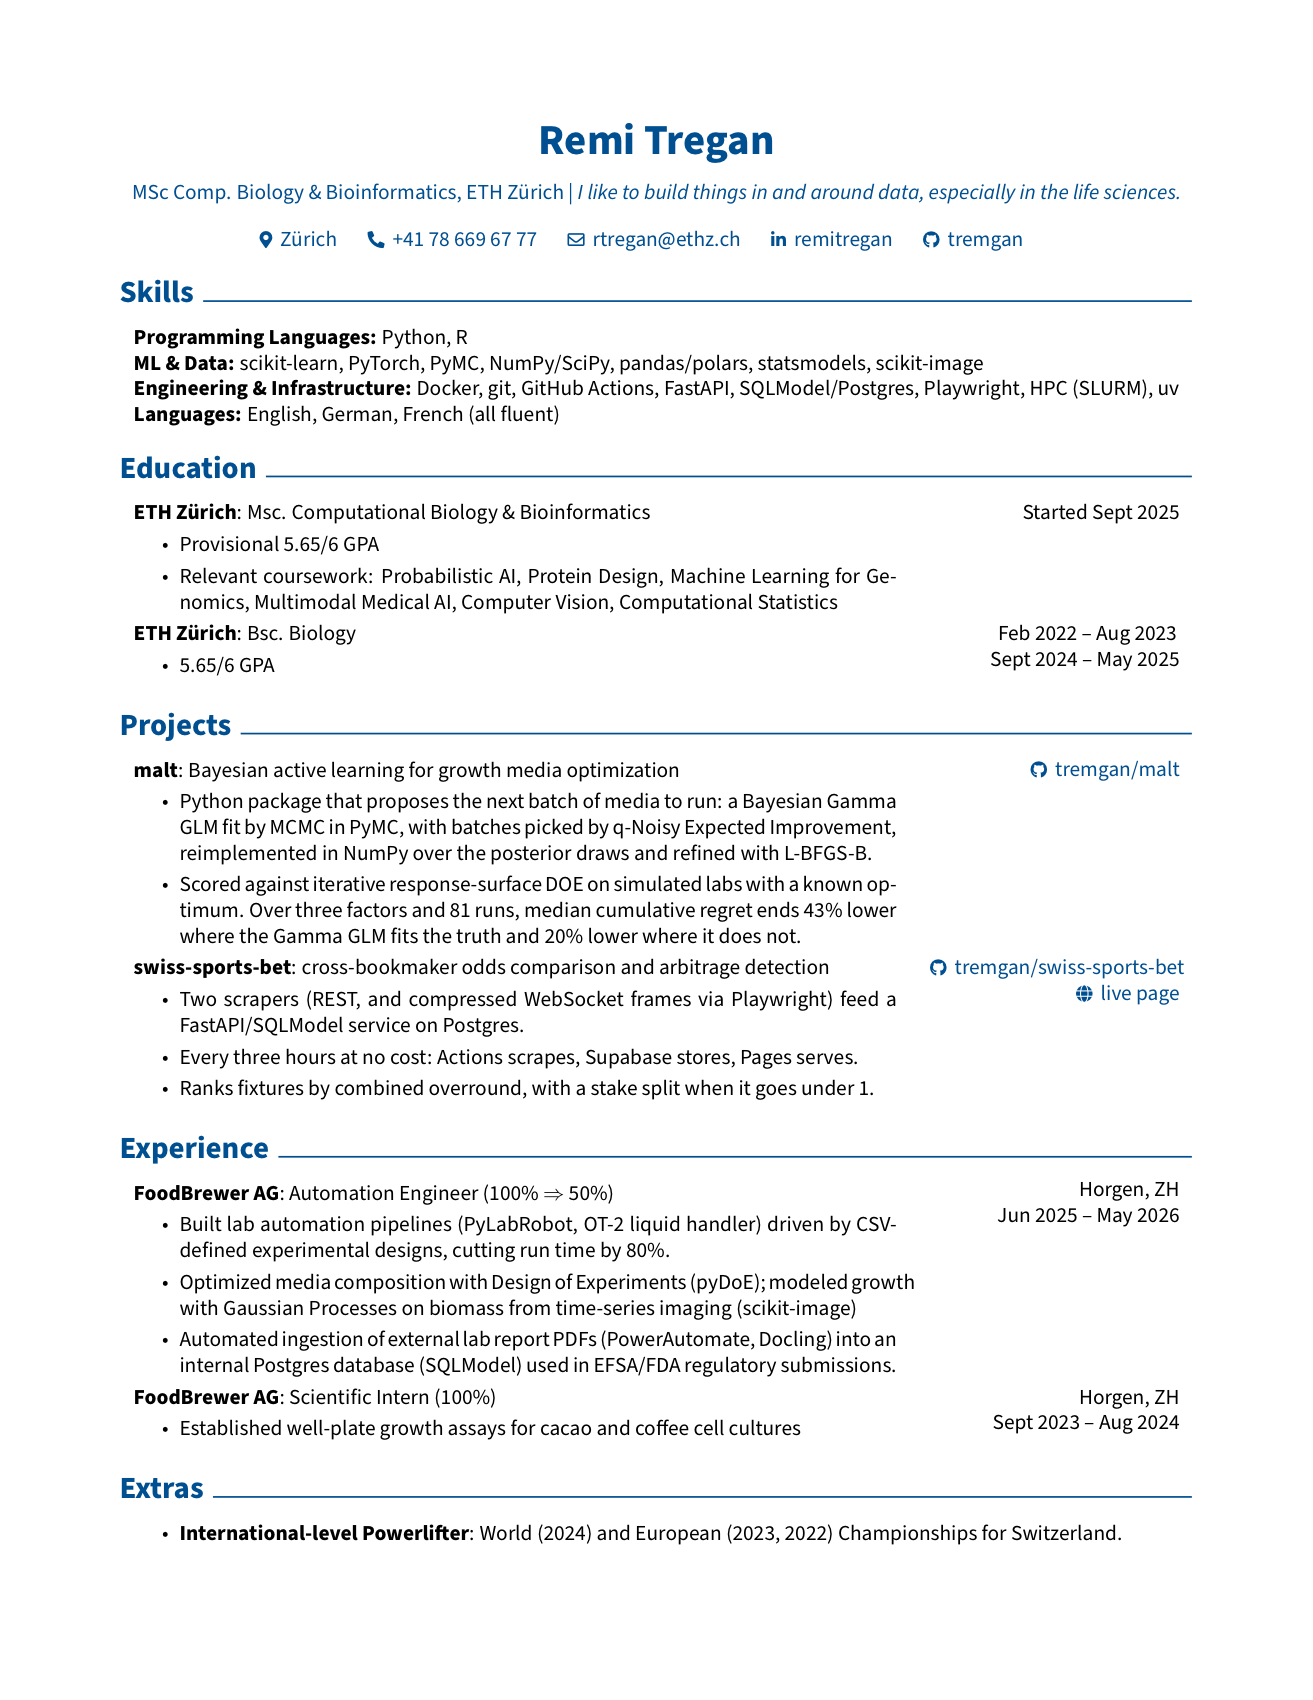
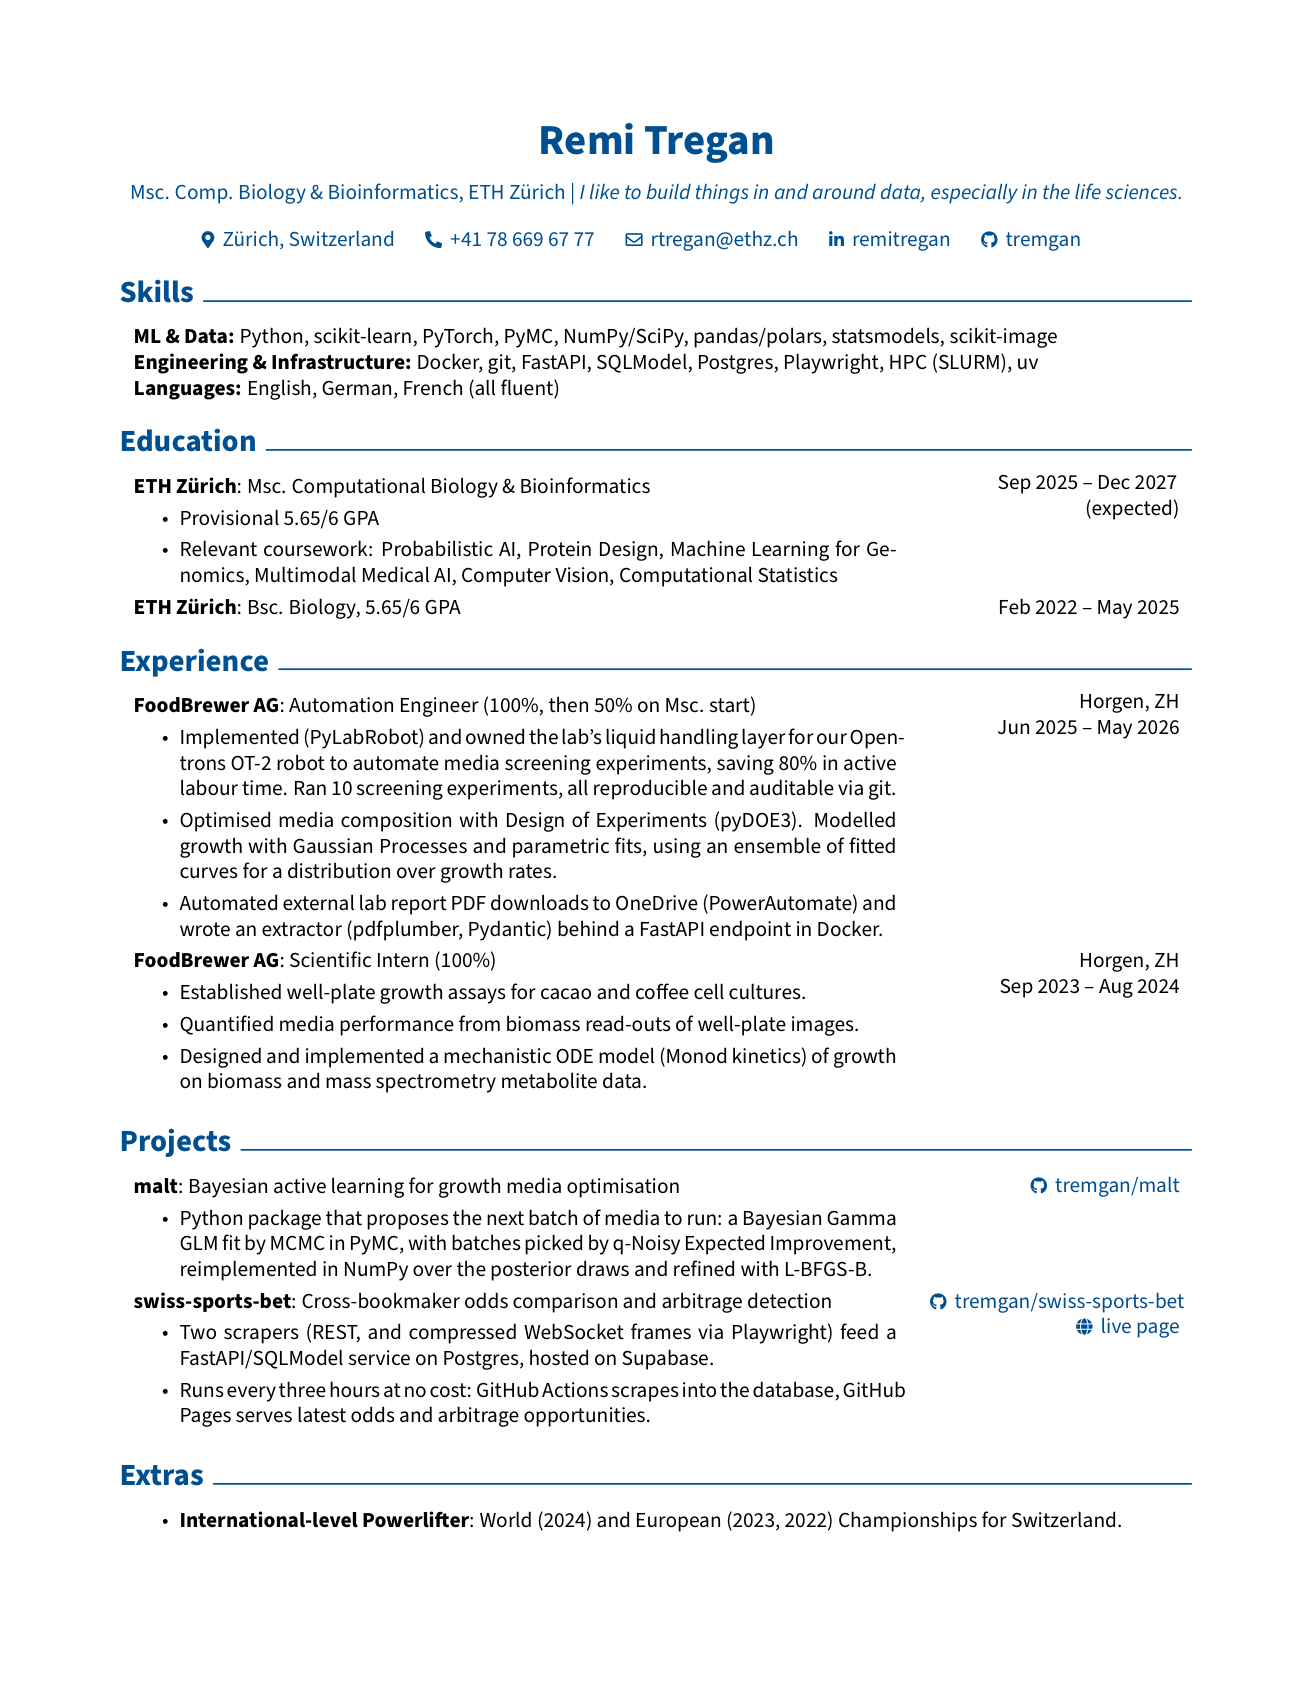
better

diff --git a/cv.tex b/cv.tex
@@ -172,10 +172,10 @@
 
         \vspace{3pt}
         \normalsize
-        \textnormal{MSc Comp. Biology \& Bioinformatics, ETH Zürich} \textbar\ \textit{I like to build things in and around data, especially in the life sciences.} 
+        \textnormal{Msc. Comp. Biology \& Bioinformatics, ETH Zürich} \textbar\ \textit{I like to build things in and around data, especially in the life sciences.} 
 
         \vspace{4pt}
-        \mbox{{\footnotesize\faMapMarker*}\hspace*{0.13cm}Zürich}%
+        \mbox{{\footnotesize\faMapMarker*}\hspace*{0.13cm}Zürich, Switzerland}%
         \kern 0.25 cm%
         \AND%
         \kern 0.25 cm%
@@ -204,14 +204,13 @@
 
 \section{Skills}
 \begin{onecolentry}
-    \textbf{Programming Languages:} Python, R\\
-    \textbf{ML \& Data:} scikit-learn, PyTorch, PyMC, NumPy/SciPy, pandas/polars, statsmodels, scikit-image  \\
-    \textbf{Engineering \& Infrastructure:} Docker, git, GitHub Actions, FastAPI, SQLModel/Postgres, Playwright, HPC (SLURM), uv \\
+    \textbf{ML \& Data:} Python, scikit-learn, PyTorch, PyMC, NumPy/SciPy, pandas/polars, statsmodels, scikit-image  \\
+    \textbf{Engineering \& Infrastructure:} Docker, git, FastAPI, SQLModel, Postgres, Playwright, HPC (SLURM), uv \\
     \textbf{Languages:} English, German, French (all fluent)
 \end{onecolentry}
     \section{Education}
     \begin{twocolentry}{
-             \hspace{1cm} Started Sept 2025
+             \hspace{1cm} Sep 2025 -- Dec 2027 \newline (expected)
         }
             \textbf{ETH Zürich}: Msc. Computational Biology \& Bioinformatics
             \begin{highlights}
@@ -220,51 +219,24 @@
                 \end{highlights}
         \end{twocolentry}
       \begin{twocolentry}{
-             \hspace{1cm} Feb 2022 -- Aug 2023 \newline Sept 2024 -- May 2025
+             \hspace{1cm} Feb 2022 -- May 2025
         }
-            \textbf{ETH Zürich}: Bsc. Biology
-            \begin{highlights}
-                \item 5.65/6 GPA
-            \end{highlights}
+            \textbf{ETH Zürich}: Bsc. Biology, 5.65/6 GPA
         \end{twocolentry}
 
 
-\section{Projects}
-\begin{twocolentry}{
-             \hspace{1cm} \mbox{\hrefWithoutArrow{https://github.com/tremgan/malt}{{\footnotesize\faGithub}\hspace*{0.13cm}tremgan/malt}}
-        }
-            \textbf{malt}: Bayesian active learning for growth media optimization
-            \begin{highlights}
-            \item Python package that proposes the next batch of media to run: a Bayesian Gamma GLM fit by MCMC in PyMC, with batches picked by q-Noisy Expected Improvement, reimplemented in NumPy over the posterior draws and refined with L-BFGS-B.
-            \item Scored against iterative response-surface DOE on simulated labs with a known optimum. Over three factors and 81 runs, median cumulative regret ends 43\% lower where the Gamma GLM fits the truth and 20\% lower where it does not.
-                \end{highlights}
-        \end{twocolentry}
-
-    \begin{twocolentry}{
-             \mbox{\hrefWithoutArrow{https://github.com/tremgan/swiss-sports-bet}{{\footnotesize\faGithub}\hspace*{0.13cm}tremgan/swiss-sports-bet}}
-
-             \mbox{\hrefWithoutArrow{https://tremgan.github.io/swiss-sports-bet/}{{\footnotesize\faGlobe}\hspace*{0.13cm}live page}}
-        }
-            \textbf{swiss-sports-bet}: cross-bookmaker odds comparison and arbitrage detection
-            \begin{highlights}
-            \item Two scrapers (REST, and compressed WebSocket frames via Playwright) feed a FastAPI/SQLModel service on Postgres.
-            \item Every three hours at no cost: Actions scrapes, Supabase stores, Pages serves.
-            \item Ranks fixtures by combined overround, with a stake split when it goes under 1.
-                \end{highlights}
-        \end{twocolentry}
-
-    \section{Experience}
+\section{Experience}
  \begin{twocolentry}{
             Horgen, ZH
 
         Jun 2025 -- May 2026
         }
-            \textbf{FoodBrewer AG}: Automation Engineer (100\% $\Rightarrow$ 50\%)
+            \textbf{FoodBrewer AG}: Automation Engineer (100\%, then 50\% on Msc. start)
                
             \begin{highlights}
-            \item Built lab automation pipelines (PyLabRobot, OT-2 liquid handler) driven by CSV-defined experimental designs, cutting run time by 80\%.
-             \item Optimized media composition with Design of Experiments (pyDoE); modeled growth with Gaussian Processes on biomass from time-series imaging (scikit-image)
-            \item Automated ingestion of external lab report PDFs (PowerAutomate, Docling) into an internal Postgres database (SQLModel) used in EFSA/FDA regulatory submissions.
+            \item Implemented (PyLabRobot) and owned the lab's liquid handling layer for our Opentrons OT-2 robot to automate media screening experiments, saving 80\% in active labour time. Ran 10 screening experiments, all reproducible and auditable via git.
+          \item Optimised media composition with Design of Experiments (pyDOE3). Modelled growth with Gaussian Processes and parametric fits, using an ensemble of fitted curves for a distribution over growth rates.
+            \item Automated external lab report PDF downloads to OneDrive (PowerAutomate) and wrote an extractor (pdfplumber, Pydantic) behind a FastAPI endpoint in Docker.
           
                     
             \end{highlights}
@@ -273,13 +245,39 @@
         \begin{twocolentry}{
             Horgen, ZH
 
-        Sept 2023 -- Aug 2024
+        Sep 2023 -- Aug 2024
         }
-            \textbf{FoodBrewer AG}: Scientific Intern (100\%)
-            \begin{highlights}
-            \item Established well-plate growth assays for cacao and coffee cell cultures
+        \textbf{FoodBrewer AG}: Scientific Intern (100\%)
+        \begin{highlights}
+            
+            \item Established well-plate growth assays for cacao and coffee cell cultures.
+                \item Quantified media performance from biomass read-outs of well-plate images.
+                \item Designed and implemented a mechanistic ODE model (Monod kinetics) of growth on biomass and mass spectrometry metabolite data.
                 
             \end{highlights}
+        \end{twocolentry}
+
+
+\section{Projects}
+\begin{twocolentry}{
+             \hspace{1cm} \mbox{\hrefWithoutArrow{https://github.com/tremgan/malt}{{\footnotesize\faGithub}\hspace*{0.13cm}tremgan/malt}}
+        }
+            \textbf{malt}: Bayesian active learning for growth media optimisation
+            \begin{highlights}
+\item Python package that proposes the next batch of media to run: a Bayesian Gamma GLM fit by MCMC in PyMC, with batches picked by q-Noisy Expected Improvement, reimplemented in NumPy over the posterior draws and refined with L-BFGS-B.
+                \end{highlights}
+        \end{twocolentry}
+
+    \begin{twocolentry}{
+             \mbox{\hrefWithoutArrow{https://github.com/tremgan/swiss-sports-bet}{{\footnotesize\faGithub}\hspace*{0.13cm}tremgan/swiss-sports-bet}}
+
+             \mbox{\hrefWithoutArrow{https://tremgan.github.io/swiss-sports-bet/}{{\footnotesize\faGlobe}\hspace*{0.13cm}live page}}
+        }
+            \textbf{swiss-sports-bet}: Cross-bookmaker odds comparison and arbitrage detection
+            \begin{highlights}
+            \item Two scrapers (REST, and compressed WebSocket frames via Playwright) feed a FastAPI/SQLModel service on Postgres, hosted on Supabase.
+            \item Runs every three hours at no cost: GitHub Actions scrapes into the database, GitHub Pages serves latest odds and arbitrage opportunities.
+                \end{highlights}
         \end{twocolentry}
 
 \section{Extras}

diff --git a/CLAUDE.md b/CLAUDE.md
@@ -74,6 +74,29 @@ Do not use:
 The test for any bullet: could it appear on someone else's CV unchanged? If
 yes, it says nothing. Replace it with the tool, the number, or the result.
 
+## Mechanical checklist
+
+From the FAANG Tech Leads resume checklist
+(<https://www.faangtechleads.com/resume/checklist>; the Experience, Skills,
+Education and Projects sections are paywalled, so only the general, contact
+and summary rules below are from it). These are format rules, not content
+rules. On a conflict, the content principles above win.
+
+- One font throughout, readable and common. One date format throughout,
+  `MMM YYYY`: `Sep`, not `Sept`.
+- Reverse chronological order within every section.
+- Spell out an acronym at its first occurrence, or drop it.
+- Contact block: name, email, phone with country code, city and country,
+  LinkedIn. No photo, no age, no birthday.
+- Use an email address that outlives the degree. A school address expires.
+- Link only profiles with something on them, and click every link before a
+  push.
+- The header line under the name is a summary, so it carries a specialized
+  skill in the language of the job posting. It is not a statement of
+  objective, and it is not a sentence about what Remi enjoys.
+- Non-tech extracurriculars are a liability by default. Keep one only when it
+  says something a bullet cannot.
+
 ## Hard constraints
 
 - **One page.** Verify after any content addition — check the built PDF, not
@@ -145,3 +168,11 @@ longer commits `cv.pdf`.
   Date ranges must use `--`. See the dash rule above. Lines 220, 233 and 249
   are currently broken this way.
 - **`pdftitle={John Doe's CV}`** (line 22) is leftover template metadata.
+
+## Accepted deviations (do not flag)
+
+Remi has decided these are fine. Don't raise them in reviews.
+
+- The header tagline ("I like to build things in and around data,
+  especially in the life sciences.") stays, despite the summary rule.
+- The contact email is rtregan@ethz.ch, despite the expiring-address rule.
